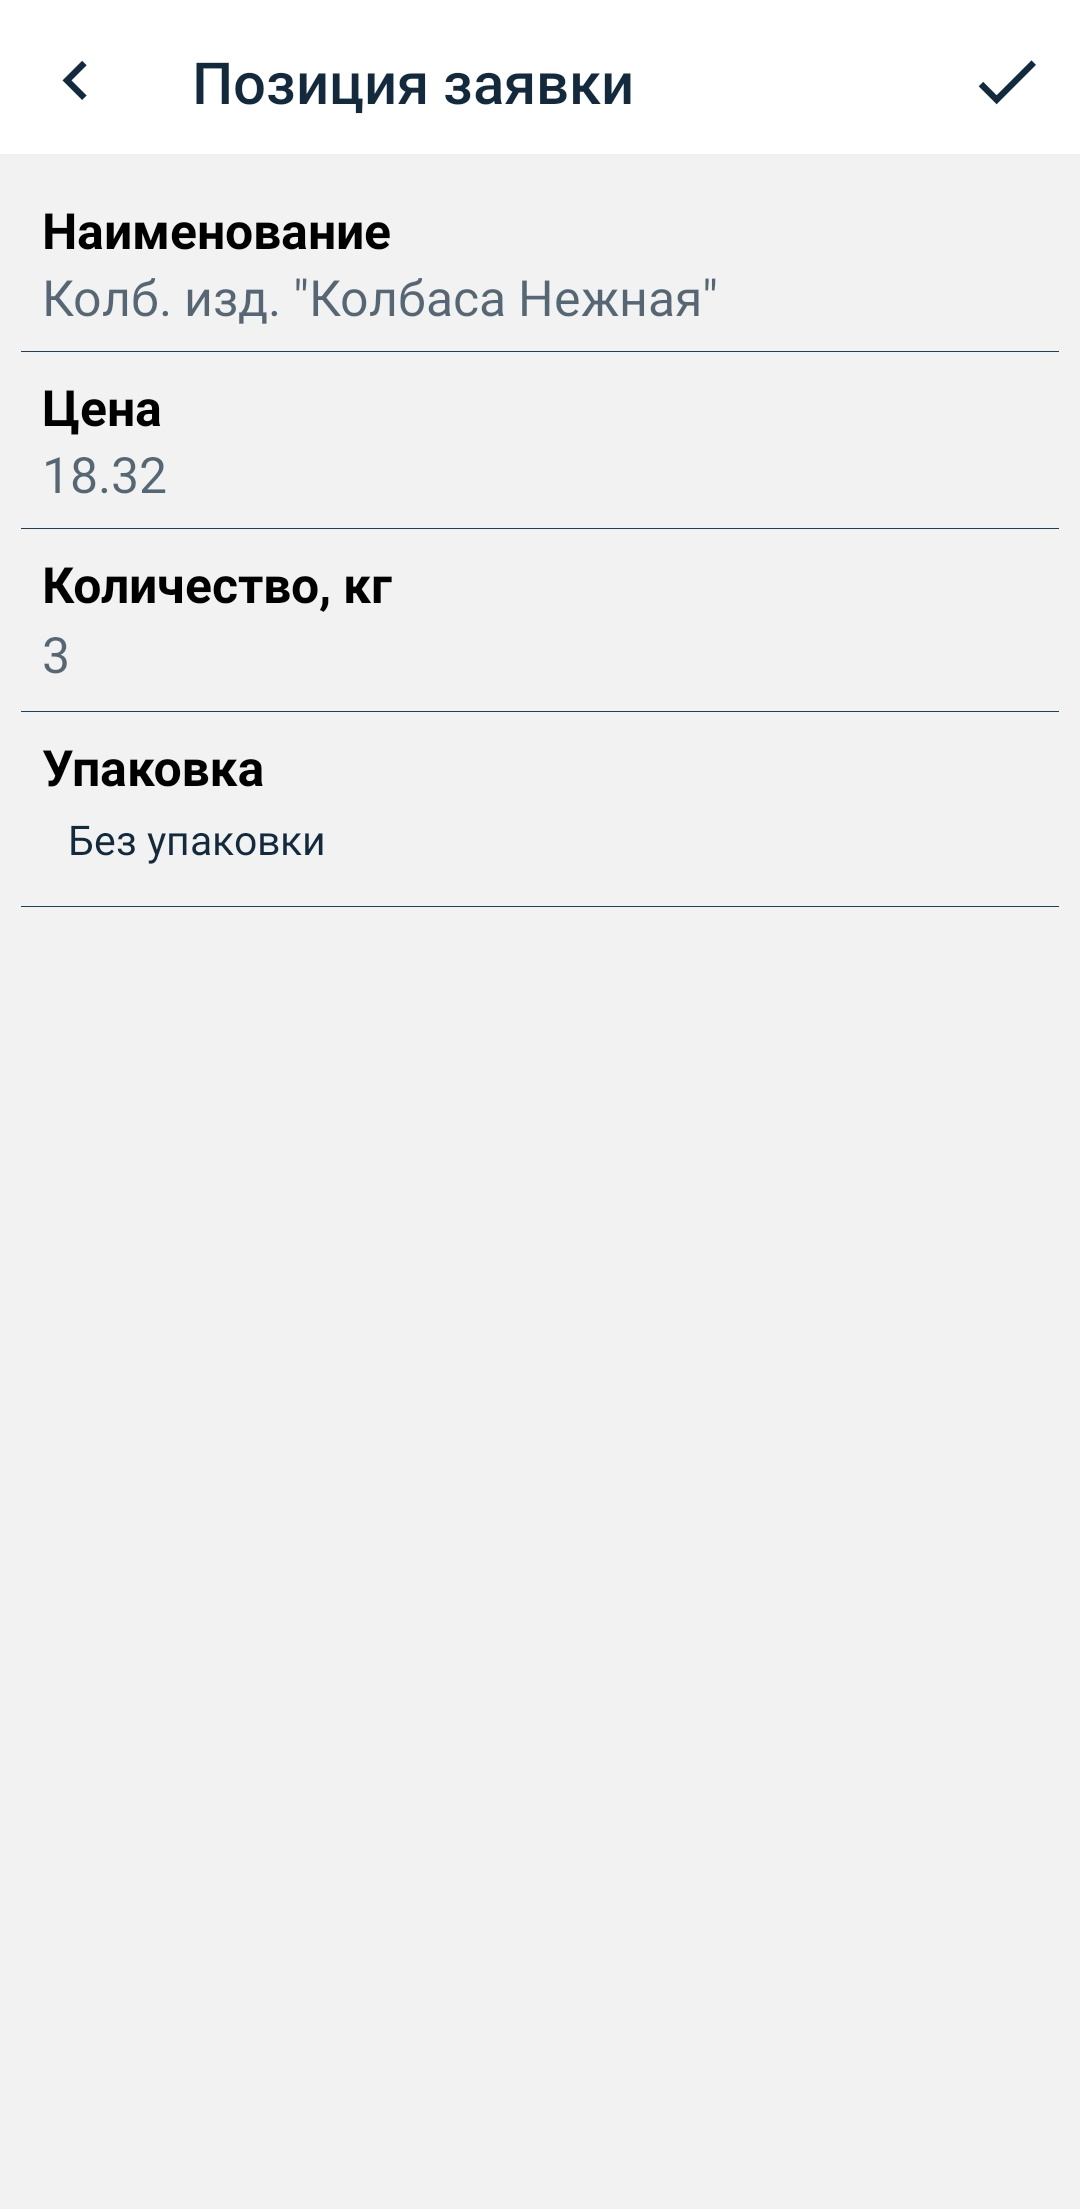
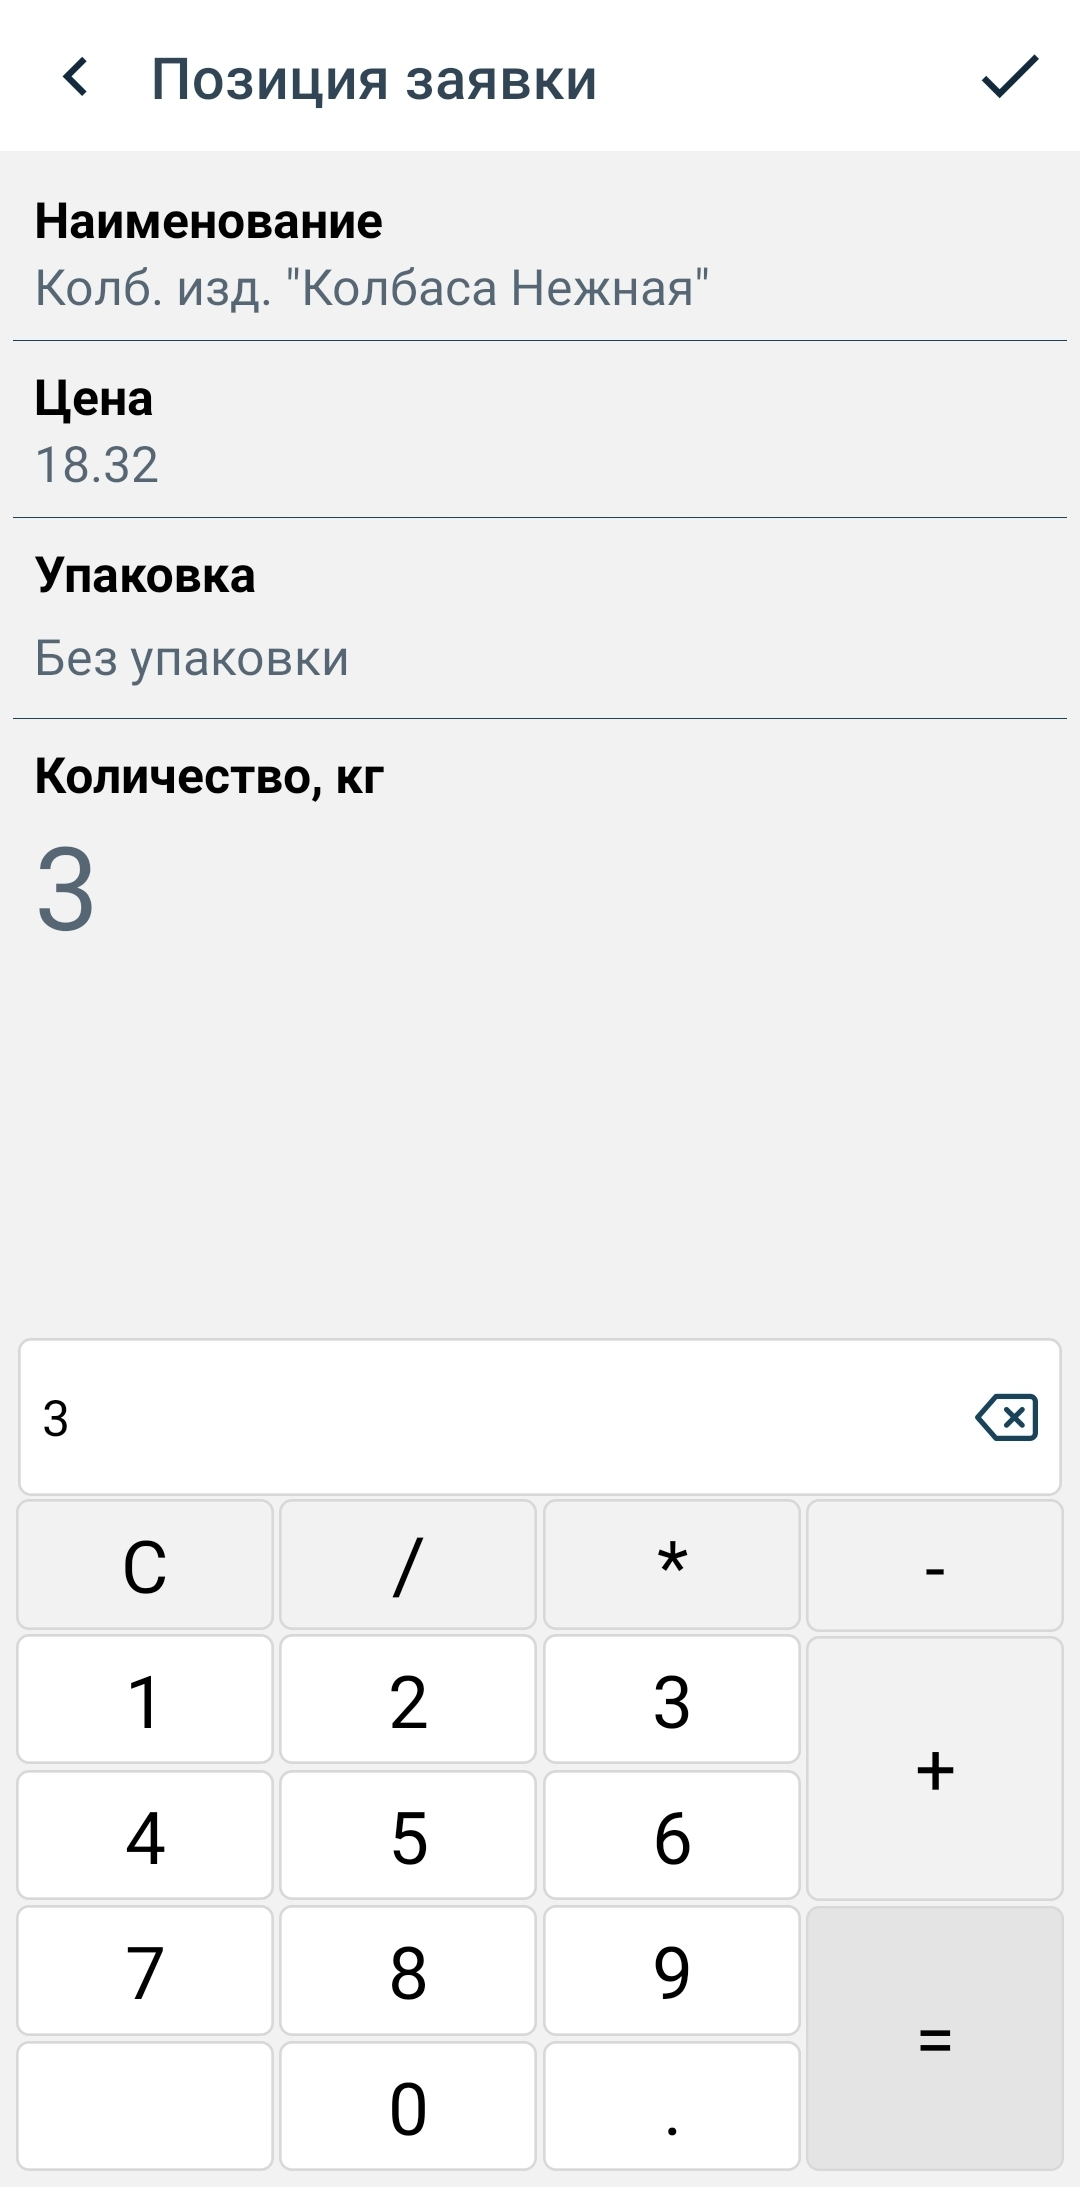
changes docs

diff --git a/docs/gdmn-app-trade-agents/docs/README.md b/docs/gdmn-app-trade-agents/docs/README.md
@@ -79,7 +79,7 @@
 
 | Параметр | Описание |
 | ------------ | -------- |
-|Синхронизация   | Автоматическая синхронизация не может быть меньше периода синхронизации на сервере  |
+|Синхронизация   | Автоматическая синхронизация по протяжённости периода должна быть больше периода синхронизации на сервере  |
 |Запрашивать справочники|_Если указан_, то при при каждой синхронизации на сервер будет отправляться запрос на справочники, который будет обрабатываться сервером и возвращаться в ответ c запрашиваемыми справочниками. <br> _Если не указан_, то запрос генерироваться не будет. Справочники будут выгружаться из сервера автоматически при каких-либо очередных изменениях на нём.|
 |Использовать матрицы|_Если указан_, то при добавлении товаров в заявки, цены будут вытягиваться из матриц по конкретным организациям (при условии,что такая матрица существует). <br> _Если не указан_, или матрицы у данной организации нет, то будут использоваться справочники ТМЦ. |
 |Время хранения документов в архиве| Сколько дней будет хранится документ в приложении от даты документа |
@@ -228,18 +228,19 @@
 
 <img src="img/3.Orders/3.OrderViewGoods.jpg" alt="drawing" height="400"/>
 
- перейдя к экрану **Выбор товара**, повторно выбрать из списка необходимую позицию нажатием, далее выбрать из дополнительного меню - пункт **Добавить**.
+ перейдя к экрану **Выбор товара**, повторно выбрать из списка необходимую позицию нажатием, далее выбрать из дополнительного меню - пункт **Добавить позицию**.
 
   <img src="img/3.Orders/3.ReferenceBookOfGoods.jpg" alt="drawing" height="400"/> <img src="img/3.Orders/3.AddMenuAddGoods.jpg" alt="drawing" height="400"/>
 
 
- И далее действовать по уже знакомой схеме - ввести количество товара, необходимый вид упаковки и нажать на иконку " **✓** ". Выбранный повторно товар отразится в списках товаров, и будет виден в самой заявке.
+ И далее действовать по уже знакомой схеме - ввести количество товара, необходимый вид упаковки и нажать на иконку " **✓** ". Выбранный повторно товар отразится в списках товаров, а так же будет виден в самой заявке.
 
  <img src="img/3.Orders/3.ReferenceBookOfGoods2.jpg" alt="drawing" height="400"/> <img src="img/3.Orders/3.OrderViewGoodsTwo.jpg" alt="drawing" height="400"/>
 
 #### Редакция позиции
+Необходимо подчеркнуть, что редакция позиции возможна только в том случае, когда сам документ находится в статусе **Черновик** (значок  <img src="img/1.Connection/1.IconDraft.JPG" alt="drawing" height="22"/> или шапка документа красного цвета).
 
-При возникновении ситуации, когда во время заполнения заявки необходимо изменить уже заявленное количество товара или его тару, можно сделать это повторным нажатием на необходимую позицию в списках товров, далее выбрать из появившегося дополнительного меню пункт **Редактировать**.
+При возникновении ситуации, когда во время заполнения заявки необходимо изменить уже заявленное количество товара или его тару, то можно сделать это повторным нажатием на необходимую позицию в списках товаров, далее выбрать из появившегося дополнительного меню пункт **Редактировать**.
 
 <img src="img/3.Orders/3.ReferenceBookOfGoods.jpg" alt="drawing" height="400"/> 
 <img src="img/3.Orders/3.AddMenuAddGoods.jpg" alt="drawing" height="400"/>
